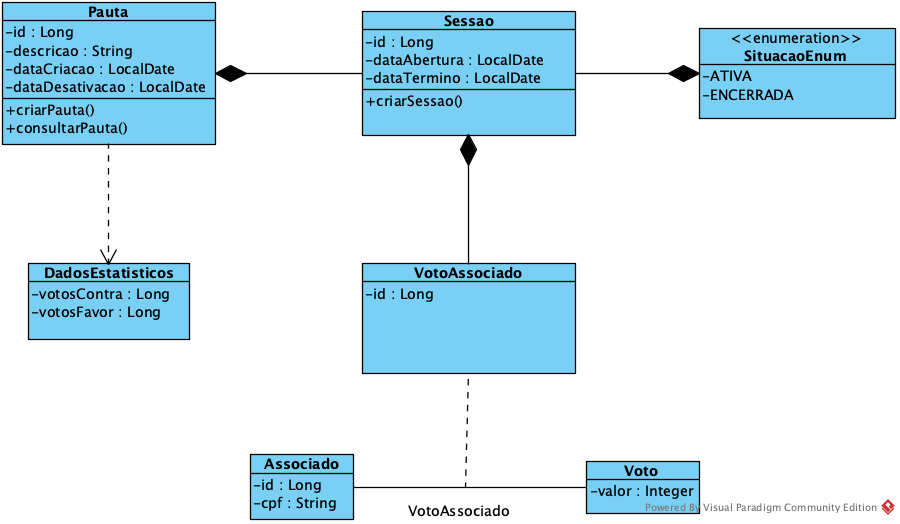
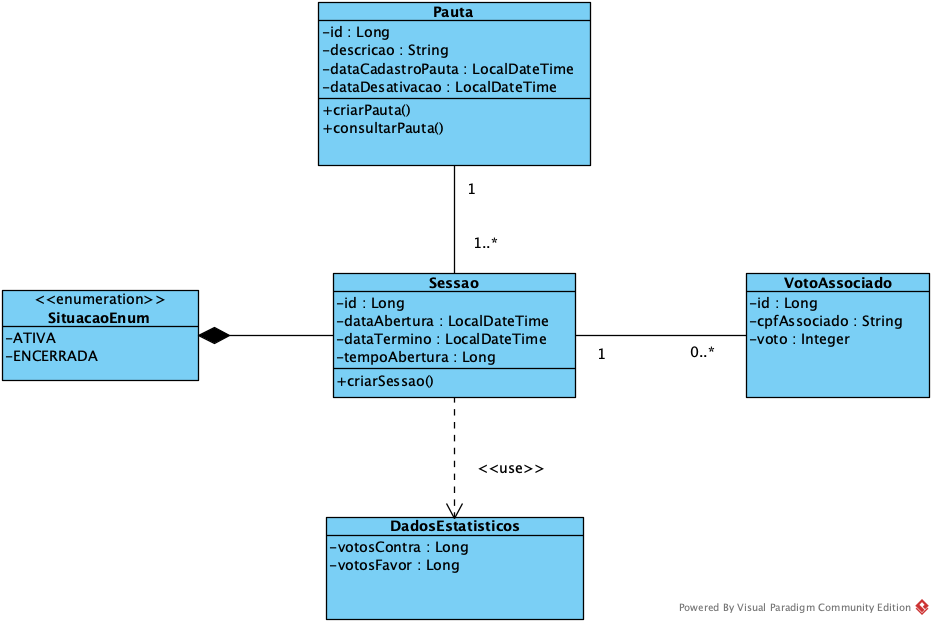
altera doc e readme

diff --git a/README.md b/README.md
@@ -8,8 +8,17 @@
 - Neste projeto foi utilizado o framework Spring Boot e o desenvolvimento e desenvolvido em Java, foi utilizado Spring Data para acesso ao banco.
 - Para os testes estáticos foi utilizado o banco de dados H2, por ser fácil de utilizar no serviço. Para o banco de dados remoto foi utilizado [PostgreSQL](https://www.postgresql.org/), que possui suporte free em plataformas de serviço (Paas), como o [Heroku](https://www.heroku.com/).
 
+## Modelagem do projeto
+
+Diagrama de caso de uso foi  criado para auxiliar no levantamento dos requistos.
+![sessao-votacao-use-case](https://user-images.githubusercontent.com/13247216/79412990-32e92080-7f7d-11ea-9053-a35c1769aec4.png)
+
+Diagrama de classe foi gerado inicialmente para especificar as classe principais (gerando as entidades básicas).
+![sessao-votacao-diagrama-classe](https://user-images.githubusercontent.com/13247216/79412918-f61d2980-7f7c-11ea-84fc-e82c6a549567.png)
+
+
 ## Arquitetura do projeto
-Para este projeto uma divisão em feature, contemplando assim cada feature sua regra de negócio, a seguinte estrutura e módulos foi definida. 
+Para este projeto utilizou a divisão feature, contemplando assim cada feature sua regra de negócio (pauta, voto, voto associado), a arquitetura esta definida na seguinte estrutura de módulos. 
 - **contract:** Expôem os endpoint para a camada REST, ou seja, camada responsável pelo contrato.
 - **exception:** Camada responsável pelo tratamento das exceções, possui uma classe gérica (GenerecException) devolve exceções de forma amigável.
 - **domain:** Camada responsável por conter as regras de neçócio, persistência dos dados, mapeamento de objetos.
@@ -26,7 +35,9 @@ http://localhost:9001/sessao-votacao/swagger-ui.html
 
 ## Execução do projeto
 Para gerenciamento das dependências e build utiliza-se o Gradle e o projeto faz uso do java 11.
+
 Foi utilizada a biblioteca do [Lombok](https://projectlombok.org/), para aumento da produtividade e redução de boilerplate. Dependendo da IDE utilizada é necessário ir até o marketplace instalar o plugin e depois em preferências aplilita-lo, caso isso não seja feito os métodos getter, setter, equals, builder podem acusar erro.
+
 Na pasta raiz do projeto executar o comando abaixo para baixar as depências necessárias.
 ```
 ./gradlew clean build --refresh-dependencies
@@ -34,14 +45,153 @@ Na pasta raiz do projeto executar o comando abaixo para baixar as depências nec
 
 ## Testes e cobertura de testes
 O projeto utiliza [JUnit5](https://junit.org/junit5/) como framework de teste. Para os testes unitários foi utilizado o Framework [Mockito](https://site.mockito.org/) com o objetivo de facilitar o processo de mockar métodos ou classes dependentes no teste.
+
 Para verificar a cobertura de teste basta executar o comando abaixo, e o relatório de cobertura esta disponível no seguinte path do projeto: ```build/reports/jacoco/index.html```.
 ```
 ./gradlew build codeCoverageReport
 ```
 
 ## Build do codigo e suas métricas
-O build do projeto, execução de testes, geração de cobertura e deploy da aplicação pode ser visualizadas no remoto utilizando o [Travis CI](https://travis-ci.com/github/RonaldoGuastalli/sessao-votacao), sendo o build gerado através de integração continua com os comitis do GIT. Para deploy da aplicação foi utilizado o Heroku e é possivel realizar os commits sem a necessidade do deploy basta setar em application propertie como apresentado abaixo.
+O build do projeto, execução de testes, geração de cobertura e deploy da aplicação pode ser visualizadas no remoto utilizando o [Travis CI](https://travis-ci.com/github/RonaldoGuastalli/sessao-votacao), sendo o build gerado através de integração continua com os commitis do GIT. Para deploy da aplicação foi utilizado o Heroku e é possivel realizar os commits sem a necessidade do deploy basta setar em application properties, como apresentado abaixo.
 ```
 spring.profiles.active=prod
 ``` 
-Desta forma as configurações para deploy acionadas. No [Heroku](https://www.heroku.com/) utilizou como recurso o banco de dados Heroku Postgres, um banco baseado no [PostgreSQL](https://www.postgresql.org/) executado pelo Heroku através da utilização de [add-ons](https://elements.heroku.com/addons). Utilizou-se a opção do “robby-dev” que é um dos níveis gratuitos do Heroku. As configurações do banco dados foram setadas no Travis (Environment Variables) de forma a garantir a segurança da aplicação
+Desta forma as configurações para deploy são acionadas. No [Heroku](https://www.heroku.com/) utilizou como recurso o banco de dados Heroku Postgres, um banco baseado no [PostgreSQL](https://www.postgresql.org/) executado pelo Heroku através da utilização de [add-ons](https://elements.heroku.com/addons). Utilizou-se a opção do “robby-dev” que é um dos níveis gratuitos do Heroku. As configurações do banco dados foram setadas no Travis (Environment Variables) de forma a garantir a segurança da aplicação.
+
+O [SonarCloud](https://sonarcloud.io) foi utilizado para a cobertura análise da cobertura de teste. O relatório pode ser visualizado em: [sessao-votacao](https://sonarcloud.io/dashboard?id=RonaldoGuastalli_sessao-votacao).
+
+## Mensageria com Kafka
+Utilizou-se para mensageria o [Kafka](https://kafka.apache.org/), sendo um sistema de mensageria distribuido (publish-subscribe), que é desgnado para ser rápido, scalável e durável podendo suportar grande número de consumidores e reter grande quantidades de dados com pouca sobrecarga.
+
+Para ter em possibilidade de testar, uma mensagem produzida (producer) pela aplicação através de um consumer externo criou-se a seguinte estrutura:
+
+- Utilizou-se o [CloudKarafka](https://www.cloudkarafka.com/docs/index.html) que são servidores Apache Kafka gerenciados na nuvem.
+- Criou-se uma instancia do CloudKarafka do tipo ```Developer Duck``` que possibilita o plano free.
+- Quando uma pauta atinge a data de finalização, uma mensagem e publicada no tópico (```cloudkarafka.topic=08rv3461-default```).
+- Para verificar a mensagem neste tópico criou-se uma projeto simples para servir como consumer [kafka-spring-consumer](https://github.com/RonaldoGuastalli/kafka-spring-consumer), para executar o consumer:
+
+Primeira forma: No projeto acima realizar os seguintes passos
+1. git clone https://github.com/RonaldoGuastalli/kafka-spring-consumer.git;
+2. cd kafka-spring-consumer;
+3. ```./gradlew clean build```;
+4. na raiz do projeto executar ```java -jar build/libs/kafka-spring-0.0.1-SNAPSHOT.jar```;
+3. criar uma sessão vinculada a uma pauta e quando este estiver com a situação de ENCERRADA será publicada no tópico, portanto este consumer receberá esta mensagem;
+
+Segunda forma: No projeto acima realizar os seguintes passos
+1. baizar o .zip com o .jar em [kafka-spring-0.0.1-SNAPSHOT.jar.zip](https://github.com/RonaldoGuastalli/kafka-spring-consumer/files/4484664/kafka-spring-0.0.1-SNAPSHOT.jar.zip);
+2. descompactar o arquivo;
+3. executar ```java -jar kafka-spring-0.0.1-SNAPSHOT.jar```;
+4. aguardar o recebimento da mensagem
+
+IMPORTANTE: a cada 60s é realizada uma verificação na base para identificar se alguma pauta mudou de status, portanto somente neste momento a mensagem será enviada para o tópico, ou seja, pode ter sido encerrada mas ainda não estar no tópico.
+
+Mensagem recebida (consumer):
+```
+08rv3461-default-3[4] "{"message":{"id":15,"descricao":"Definir data pagamento dividendos.","dataCadastroPauta":{"month":"APRIL","dayOfWeek":"THURSDAY","dayOfYear":107,"nano":917443000,"year":2020,"monthValue":4,"dayOfMonth":16,"hour":0,"minute":20,"second":38,"chronology":{"id":"ISO","calendarType":"iso8601"}},"dataDesativacao":null,"sessoes":[{"id":15,"pautaId":15,"pautaDescricao":"Definir data pagamento dividendos.","situacao":"ENCERRADA","tempoAbertura":1,"dataAbertura":{"month":"APRIL","dayOfWeek":"THURSDAY","dayOfYear":107,"nano":754451000,"year":2020,"monthValue":4,"dayOfMonth":16,"hour":0,"minute":20,"second":45,"chronology":{"id":"ISO","calendarType":"iso8601"}},"dataFinalizacao":{"month":"APRIL","dayOfWeek":"THURSDAY","dayOfYear":107,"nano":754507000,"year":2020,"monthValue":4,"dayOfMonth":16,"hour":0,"minute":21,"second":45,"chronology":{"id":"ISO","calendarType":"iso8601"}},"estatistica":{"votoContra":1,"votoFavor":0,"total":1}}]}}"
+```
+
+## Serviços
+
+Para utilizar o serviço em produção (prod): ```https://sessao-votacao.herokuapp.com/```
+Para utilizar teste no ambiente local (dev): ```http://localhost:9001```
+
+Serviços disponiveis para utilizar:
+
+Criar uma pauta
+```json
+Request:
+POST | https://sessao-votacao.herokuapp.com/sessao-votacao/v1/pauta
+{
+    "descricao": "Definir data pagamento dividendos."
+}
+Response:
+{
+    "id": 1,
+    "descricao": "Definir data pagamento dividendos.",
+    "dataCadastroPauta": "2020-04-16T00:28:55",
+    "dataDesativacaoPauta": null,
+    "sessoes": null
+}
+
+```
+
+Criar uma sessão de uma pauta
+```json
+Request:
+POST | https://sessao-votacao.herokuapp.com/sessao-votacao/v1/sessao
+{
+    "pautaId": 1,
+    "situacao": "ATIVA",
+    "tempoAbertura": 1
+}
+Response:
+{
+    "id": 1,
+    "pauta": 1,
+    "dataAbertura": "2020-04-16T03:33:15",
+    "dataTermino": "2020-04-16T03:34:15",
+    "duracao": 1,
+    "situacao": "ATIVA"
+}
+```
+
+Votar em uma sessão especifica
+```json
+Request:
+POST | https://sessao-votacao.herokuapp.com/sessao-votacao/v1/pauta/1/sessao/2/voto-sessao
+{
+    "cpfAssociado": "41443405035",
+    "voto": "SIM"
+}
+```
+
+Dados estatiscos da pauta (votos computados para sessões)
+```json
+Request:
+GET | https://sessao-votacao.herokuapp.com/sessao-votacao/v1/pauta/1/pontuacao
+{
+    "pautaId": 1,
+    "situacao": "ATIVA",
+    "tempoAbertura": 1
+}
+Response:
+{
+    "id": 1,
+    "descricao": "Definir data pagamento dividendos.",
+    "dataCadastroPauta": "2020-04-16T00:28:55",
+    "dataDesativacaoPauta": null,
+    "sessoes": [
+        {
+            "id": 1,
+            "pautaId": 1,
+            "pautaDescricao": "Definir data pagamento dividendos.",
+            "situacao": "ATIVA",
+            "tempoAbertura": 1,
+            "dataAbertura": "2020-04-16T03:33:15.939915",
+            "dataFinalizacao": "2020-04-16T03:34:15.939934",
+            "estatistica": {
+                "votoContra": 0,
+                "votoFavor": 0,
+                "total": 0
+            }
+        },
+        {
+            "id": 2,
+            "pautaId": 1,
+            "pautaDescricao": "Definir data pagamento dividendos.",
+            "situacao": "ATIVA",
+            "tempoAbertura": 1,
+            "dataAbertura": "2020-04-16T03:38:23.992112",
+            "dataFinalizacao": "2020-04-16T03:39:23.99212",
+            "estatistica": {
+                "votoContra": 1,
+                "votoFavor": 0,
+                "total": 1
+            }
+        }
+    ]
+}
+```
+
+
+
